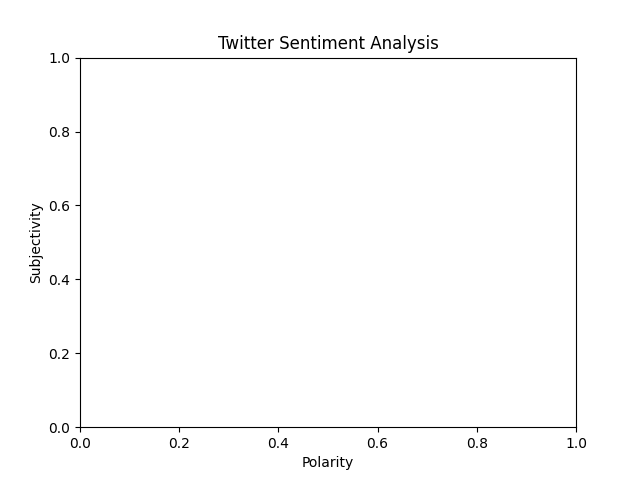
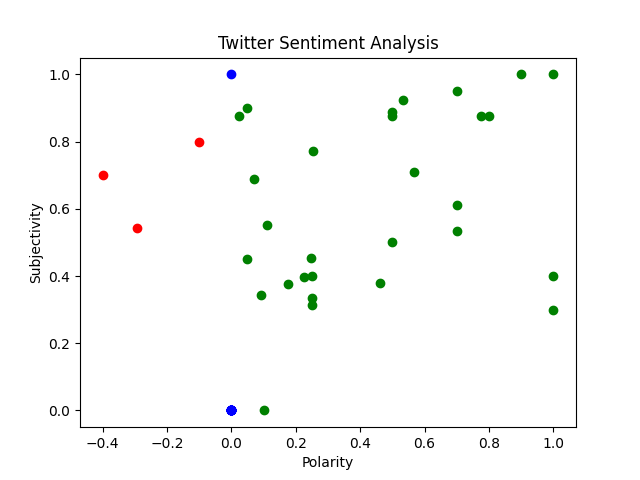
subjectivity polarity added

diff --git a/main/templates/sentiment.html b/main/templates/sentiment.html
@@ -156,8 +156,7 @@
                                     <div class="card-body" >     
                                             <img src = {{data.chart2}} class = "mridul">
                                         <hr>
-                                        Styling for the bar chart can be found in the
-                                        <code>/js/demo/chart-bar-demo.js</code> file.
+                                      Subjective sentences generally refer to personal opinion, emotion or judgment whereas objective refers to factual information.
                                     </div>
                                 </div>
                             </div>
@@ -174,12 +173,11 @@
 
                     <!-- Page Heading -->
                     <h1 class="h3 mb-2 text-gray-800">Tweets</h1>
-                    <p class="mb-4">Last 10 tweets.</p>
 
                     <!-- DataTales Example -->
                     <div class="card shadow mb-4">
                         <div class="card-header py-3">
-                            <h6 class="m-0 font-weight-bold text-primary">DataTables Example</h6>
+                            <h6 class="m-0 font-weight-bold text-primary">Last 10 Tweets</h6>
                         </div>
 
                         <div class="card-body">

diff --git a/main/views.py b/main/views.py
@@ -222,7 +222,6 @@ def check(user):
             elif row['Score'] == 'Neutral':
                 plt.scatter(row['Polarity'], row['Subjectivity'], color="blue")
                 print('blue')
-        plt.switch_backend('agg')
         plt.title('Twitter Sentiment Analysis')
         plt.xlabel('Polarity')
         plt.ylabel('Subjectivity')
@@ -247,10 +246,13 @@ def check(user):
         print(data)
 
         for i in range(10):
-            data['tweet' + str(i) + 'tweet'] = df.loc[i]['Tweet']
-            data['tweet' + str(i) + 'Subjectivity'] = df.loc[i]['Subjectivity']
-            data['tweet' + str(i) + 'Polarity'] = df.loc[i]['Polarity']
-            data['tweet' + str(i) + 'Score'] = df.loc[i]['Score']
+            try: 
+                data['tweet' + str(i) + 'tweet'] = df.loc[i]['Tweet']
+                data['tweet' + str(i) + 'Subjectivity'] = df.loc[i]['Subjectivity']
+                data['tweet' + str(i) + 'Polarity'] = df.loc[i]['Polarity']
+                data['tweet' + str(i) + 'Score'] = df.loc[i]['Score']
+            except:
+                break
         found['twitter'] = 1
         data_twitter.clear()
         for key in data:
@@ -277,32 +279,19 @@ def check(user):
             found["reddit"] = 0
     except:
         found["reddit"] = 1
-        ts = int(data['data']['created_utc'])
-        data['data']['created_utc'] = datetime.utcfromtimestamp(
-            ts).strftime('%H:%M:%S  %d-%m-%Y')
+        try:
+            ts = int(data['data']['created_utc'])
+            data['data']['created_utc'] = datetime.utcfromtimestamp(
+                ts).strftime('%H:%M:%S  %d-%m-%Y')
+        except:
+            data['data']['created_utc'] = "Date Created"   
         data_reddit.clear()
         for key in data:
             data_reddit[key] = data[key]
-        add = reddit_data(name=data['data']['name'], display_name=data['data']['id'],total_karma=data['data']['total_karma'],
-                          verified=data['data']['verified'], is_gold=data['data']['is_gold'],
-                          created_utc=data['data']['created_utc'], icon_img=data['data']['icon_img'])
-        add.save()
-    # if data['status'] == "OK":
-    #     data_reddit.clear()
-    #     for key in data:
-    #         data_reddit[key] = data[key]
-    #     try :
-    #         add = codeforces_data(organisation = data['organisation'],city=data['city'],country=data['country'],
-    #         first_name=data['firstName'],last_name=data['lastName'],handle=data['handle'],
-    #         reg_time = data['registrationTimeSeconds'],last_online = data['lastOnlineTimeSeconds'],
-    #         friends = data['friendOfCount'] , link = 'https://codeforces.com/profile/' + data['handle'],
-    #         max_rank=data['maxRank'],max_rating=data['maxRating'],rank=data['rank'],rating = data['rating'] )
-    #         add.save()
-    #     except:
-    #         add = codeforces_data(handle=data['handle'], reg_time = data['registrationTimeSeconds'],
-    #         last_online = data['lastOnlineTimeSeconds'],friends = data['friendOfCount'] ,
-    #         link = 'https://codeforces.com/profile/' + data['handle'])
-    #         add.save()
+        # add = reddit_data(name=data['data']['name'], display_name=data['data']['id'],total_karma=data['data']['total_karma'],
+        #                   verified=data['data']['verified'], is_gold=data['data']['is_gold'],
+        #                   created_utc=data['data']['created_utc'], icon_img=data['data']['icon_img'])
+        # add.save()
 
     return found
 
